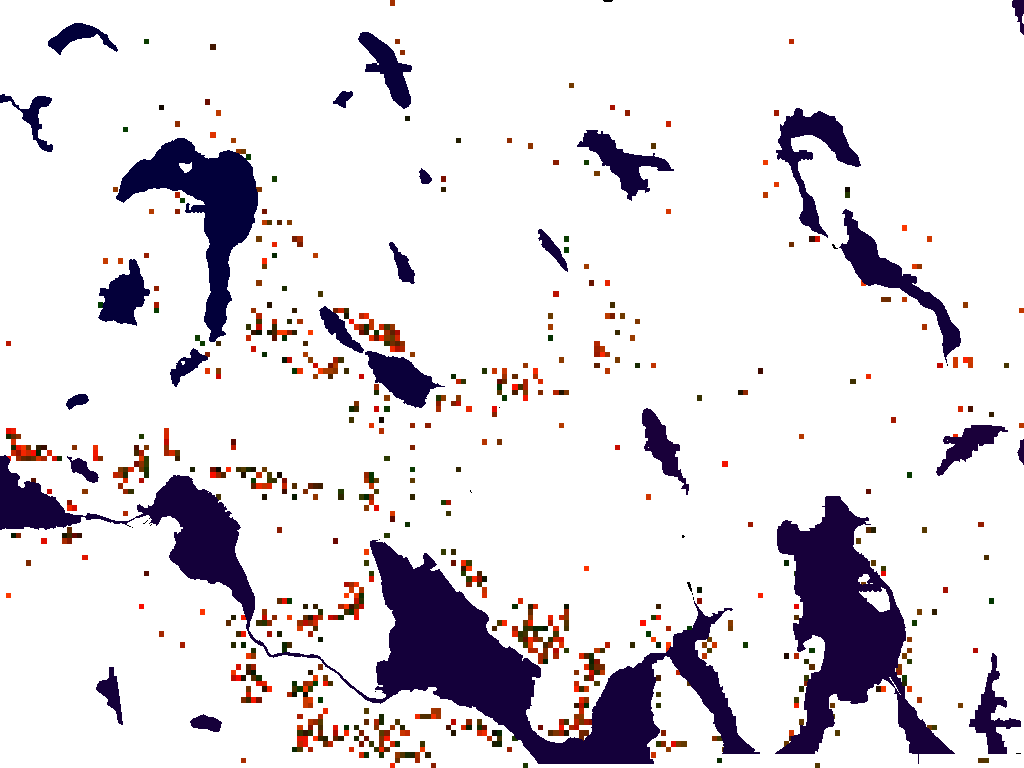
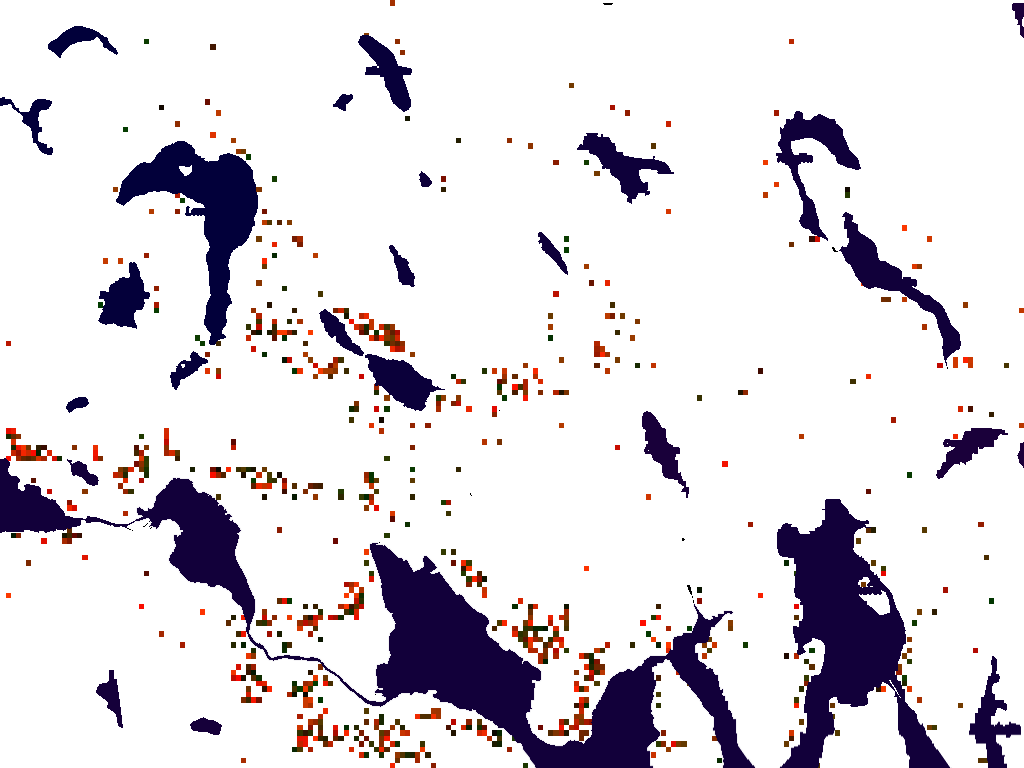
New zones, striped flood fill

diff --git a/sim/sim.js b/sim/sim.js
@@ -34,12 +34,6 @@
 		this.fy = 0;
 	}
 
-	// Particle.prototype.addDrag = function(drag) {
-	// var drag = 0.6 - 0.3 * density;
-	// this.vx *= (1.0 - drag * deltaTime);
-	// this.vy *= (1.0 - drag * deltaTime);
-	// }
-
 	Particle.prototype.addForce = function(wx, wy) {
 		this.fx += wx;
 		this.fy += wy;
@@ -275,22 +269,30 @@
 		var dummy = this.ctx2.getImageData(0, 0, this.width, this.height);
 		var dummydata = dummy.data;
 		// console.log(dummydata);
-		for(var k=0; k<this.width*this.height; k++) {
-			var a = this.zonemap.alpha[k];
-			if (a == 255) {
-				var r = this.zonemap.red[k];
-				var g = this.zonemap.green[k];
-				var b = this.zonemap.blue[k];
-				var _rgb = r + (g * 256) + (b * 65536);
-				// console.log(_rgb);
-				if (rgb == _rgb) {
+		var k = 0;
+		for(var j=0; j<this.height; j++) {
+			for(var i=0; i<this.width; i++) {
+				var a = this.zonemap.alpha[k];
+				if (a == 255) {
+					var r = this.zonemap.red[k];
+					var g = this.zonemap.green[k];
+					var b = this.zonemap.blue[k];
+					var _rgb = r + (g * 256) + (b * 65536);
+					// console.log(_rgb);
+					if (rgb == _rgb) {
 
-					dummydata[k * 4 + 0] = 255;
-					dummydata[k * 4 + 1] = 0;
-					dummydata[k * 4 + 2] = 0;
-					dummydata[k * 4 + 3] = 255;
+						// mask
 
+						var masked = (i + j) % 5 < 2;
+						if (masked ) {
+							dummydata[k * 4 + 0] = 255;
+							dummydata[k * 4 + 1] = 0;
+							dummydata[k * 4 + 2] = 0;
+							dummydata[k * 4 + 3] = 255;
+						}
+					}
 				}
+				k ++;
 			}
 		}
 		this.ctx2.putImageData(dummy, 0, 0);
@@ -338,22 +340,6 @@
 		this.ctx.fillRect(0, 0, this.width, this.height);
 
 		var leavetrace = (this.frame % 100) == 0;
-
-		if (leavetrace) {
- 			/*
- 			var dummy = this.ctx2.getImageData(0, 0, this.width, this.height);
- 			var dummydata = dummy.data;
- 			for(var k=0; k<this.width*this.height; k++) {
- 				var a = dummydata[k * 4 + 3] - 1;
- 				if (a < 0) a = 0;
- 				dummydata[k * 4 + 3] = a;
- 			}
- 			this.ctx2.putImageData(dummy, 0, 0);
- 			*/
-			//	this.ctx2.globalAlpha = 1.0;
-			//	this.ctx2.fillStyle = "rgba(0,0,0,0.1)";
-			//	this.ctx2.fillRect(0, 0, this.width, this.height);
-		}
 
 		if (this.overlaymap.image && this.showOverlay) {
 			this.ctx.globalAlpha = 1.0;
@@ -472,7 +458,7 @@
 				console.log('zone triggered:', rgb, x, y);
 				var zoninfo = brunnLookup['i' + rgb];
 				console.log('brunn lookup', zoninfo);
-				if (zoninfo) {
+				if (zoninfo && zoninfo.t) {
 					var el = document.createElement('li');
 					el.innerText = zoninfo.t;
 					document.getElementById('events').appendChild(el);

diff --git a/sim/index.html b/sim/index.html
@@ -1,4 +1,4 @@
-<!DOCTYPE html>
+<!DOCTYPE html>
 <html>
 <head>
 	<link rel="stylesheet" href="sim.css" />
@@ -28,6 +28,7 @@
 		</ul>
 	</div>
 	<div id="overlays">
+		ÅÄÖ
 	</div>
 </body>
 </html>

diff --git a/sim/sim.css b/sim/sim.css
@@ -35,7 +35,7 @@ div.menu {
 	position: absolute;
 	right: 0px;
 	top: 0px;
-	width: 200px;
+	width: 300px;
 	background-color: rgba(0,0,0,0.33);
 }
 
